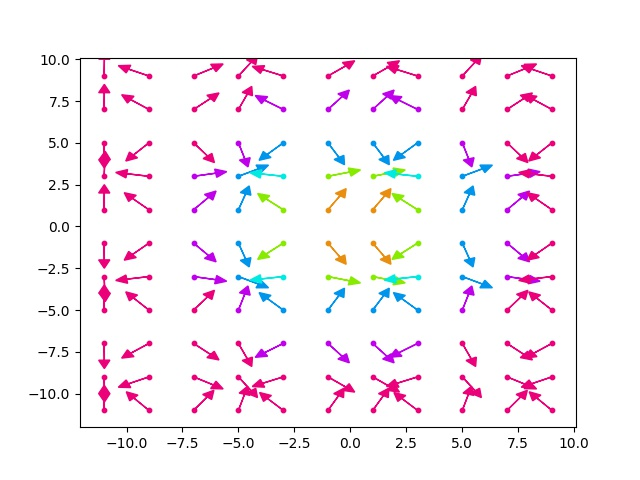
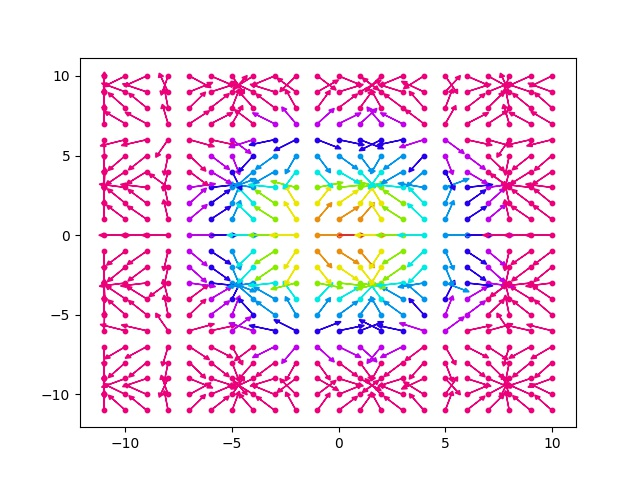
Cleaning Files

diff --git a/graph.py b/graph.py
@@ -35,14 +35,3 @@ def plot_color(fx, fy, bound_x=(-10, 10), bound_y=(-10, 10), skip=1, prop=0, hea
                       head_width=head_size, head_length=head_size, color=c)
     plt.savefig("vector_field.jpg")
     plt.show()
-
-
-def f_x(x, y):
-    return x
-
-
-def f_y(x, y):
-    return y
-
-
-plot_color(f_x, f_y, skip=2)

diff --git a/test.py b/test.py
@@ -1,3 +1,3 @@
 import take_function as t
 
-t.graph_color("cos(x)", "sin(y)", skip=1)
+t.graph_color("cos(x)", "sin(y)", skip=1, head_size=0.25)
